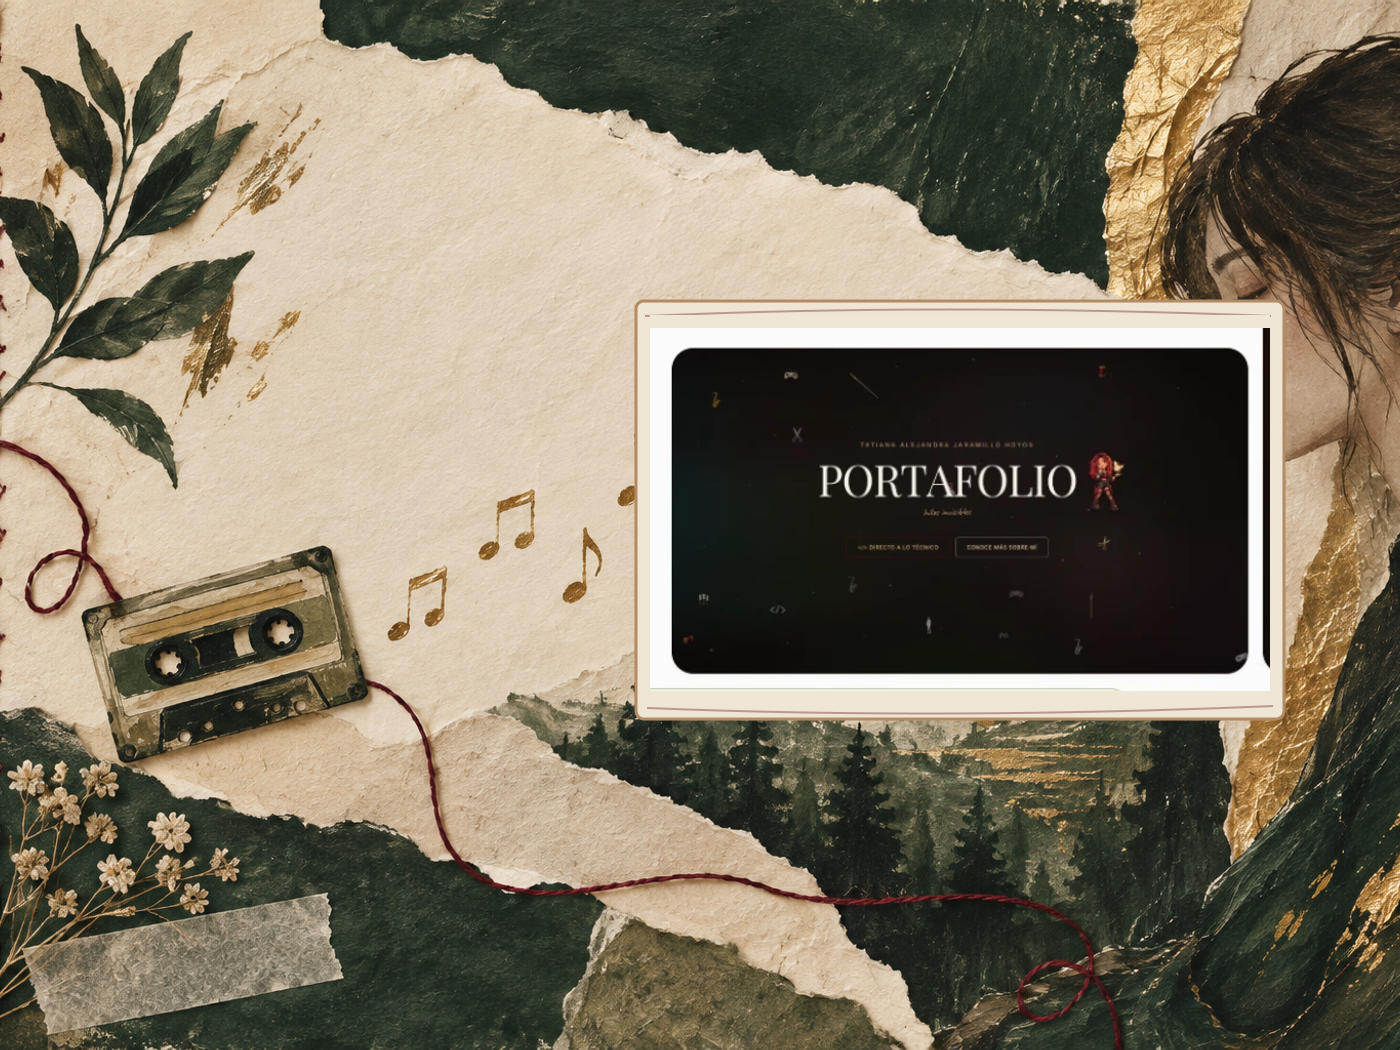
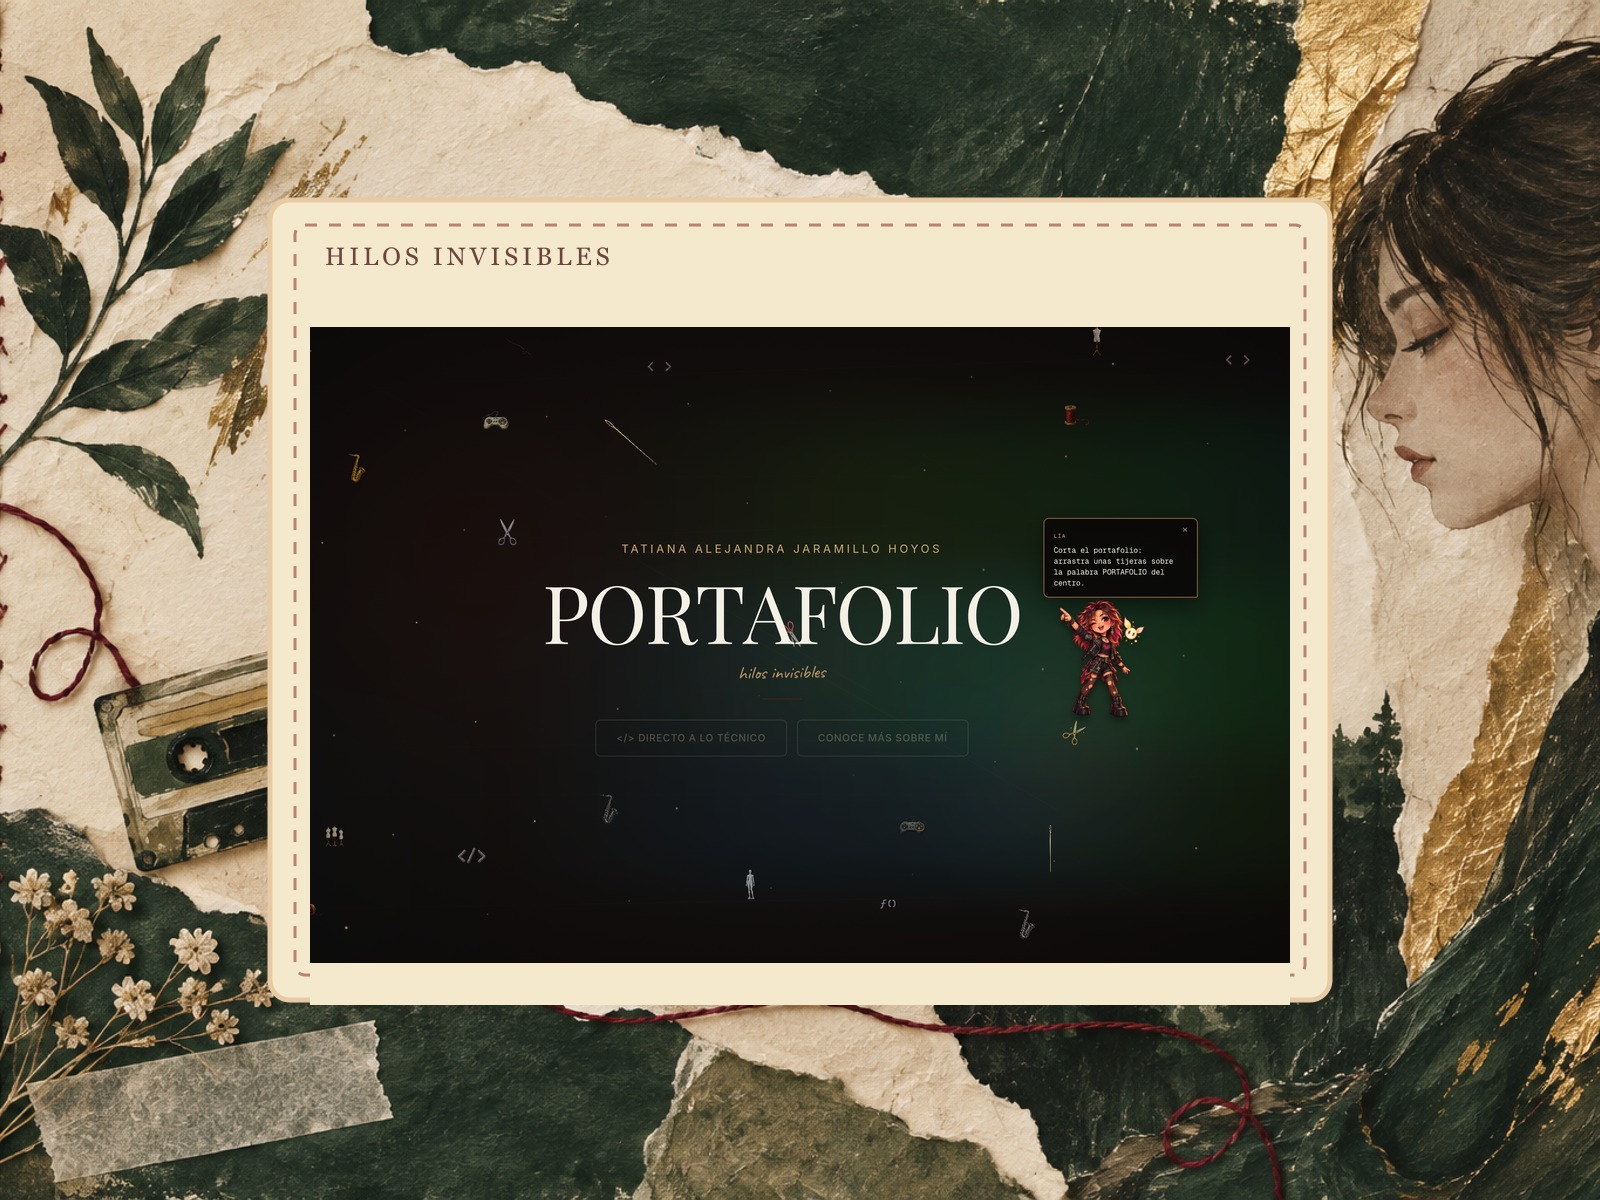
refresh Hilos Behance slides with real portfolio captures

diff --git a/docs/behance/packages/hilos-invisibles/README.md b/docs/behance/packages/hilos-invisibles/README.md
@@ -3,15 +3,15 @@
 ## Orden de imágenes
 
 1. `assets/00-cover-pintada.png` — portada ilustrada.
-2. `assets/01-hilos-intencion.png` — intención y concepto.
-3. `assets/02-hilos-sistema.png` — sistema visual y recorrido.
-4. `assets/03-hilos-desarrollo.png` — programación e interacción.
+2. `assets/01-hilos-intencion.png` — intención y concepto, con la portada real integrada en una lámina pintada.
+3. `assets/02-hilos-sistema.png` — sistema visual, índice y recorrido real.
+4. `assets/03-hilos-desarrollo.png` — programación e interacción, con una captura real del portafolio.
 5. `assets/04-hilos-resultado.png` — resultado y evolución.
-6. `assets/01-hilos-collage.png` — pantallas reales del portafolio.
-7. `assets/02-hilos-estructura.jpeg` — estructura y navegación real.
-8. `assets/03-hilos-esencia.png` — lenguaje visual real del portafolio.
+6. `assets/05-hilos-portada-real.png` — captura original de la portada.
+7. `assets/06-hilos-banner-real.png` — captura original del encabezado.
+8. `assets/07-hilos-indice-real.png` — captura original del índice.
 
-La secuencia empieza con la portada y las láminas editoriales; las tres capturas reales van al final como evidencia del resultado.
+Las láminas combinan arte pintado con capturas reales del sitio. El arte funciona como marco y atmósfera; las interfaces se mantienen reconocibles como evidencia del trabajo de diseño y programación. No se usan fotos personales ni texto generado para sustituir las pantallas.
 
 ## Texto para Behance
 
